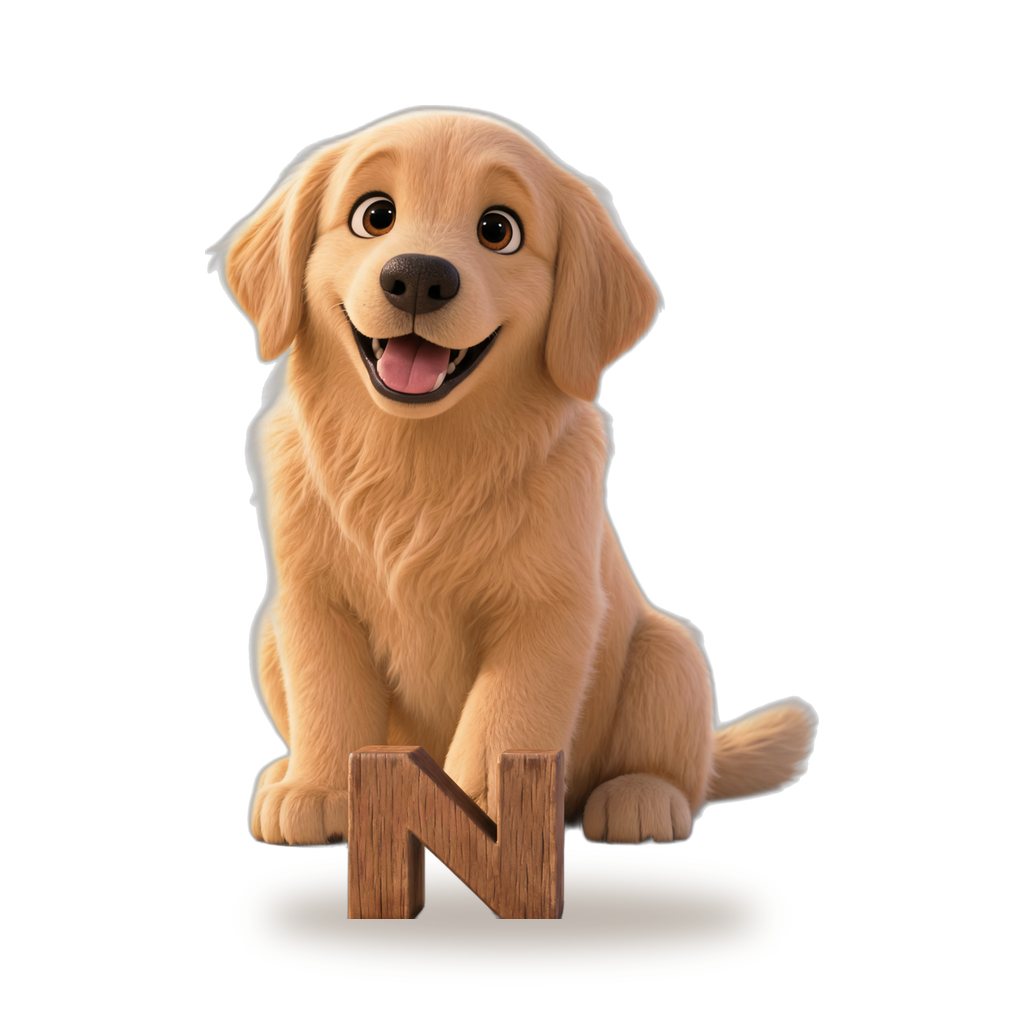
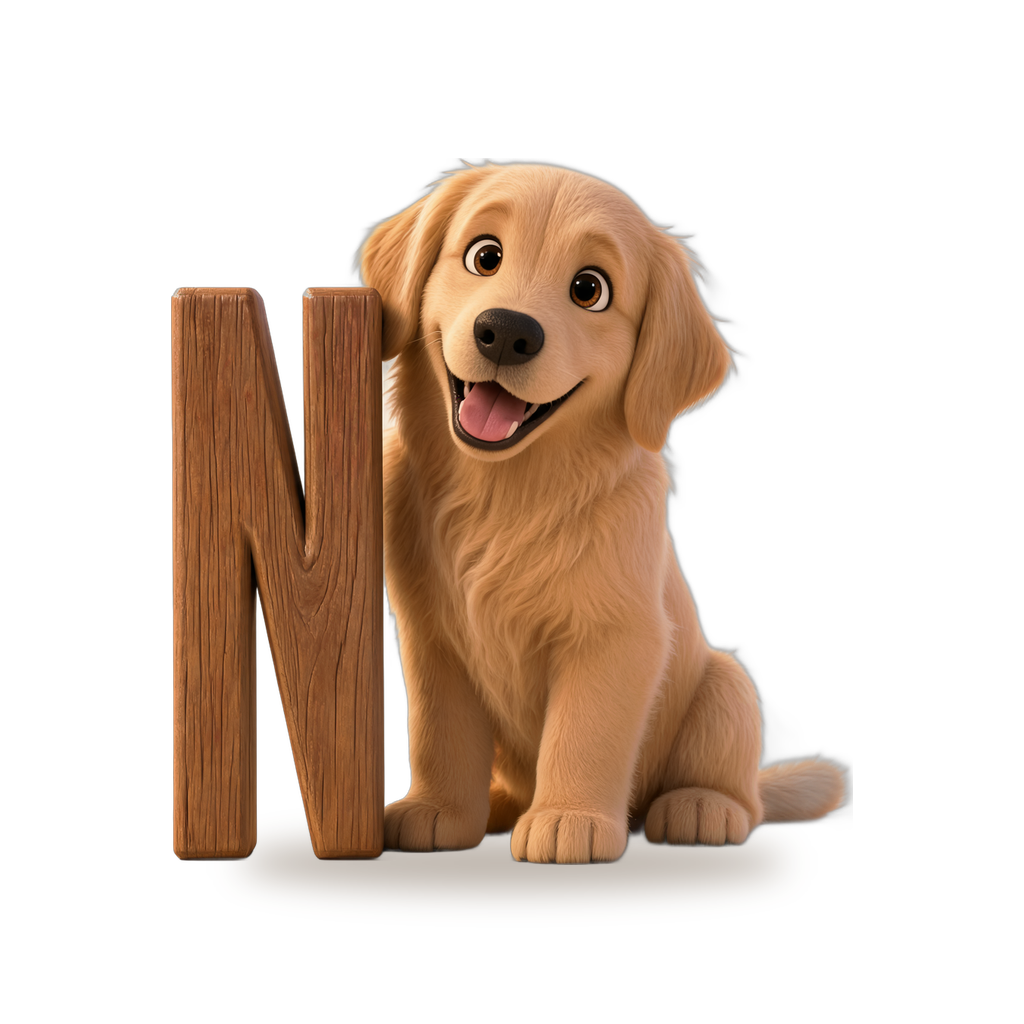
letter post: chunky N and T redo (redo3), nt-sheet + preview

diff --git a/letter-post/MANIFEST.md b/letter-post/MANIFEST.md
@@ -19,13 +19,13 @@ Credits: 37 generations x 212.1 = 7,847.7.
 | K | cutout/lucy-letter-k.webp | raw/K-final.png | pass: K-try3 (try1 hidden/mangled, try2 mangled) |
 | L | cutout/lucy-letter-l.webp | raw/L-final.png | pass: L-try1 |
 | M | cutout/lucy-letter-m.webp | raw/M-final.png | pass: test1 M-2 (reused) |
-| N | cutout/lucy-letter-n.webp | raw/N-final.png | weak: redo2-try2, N in front but bottom edge touches frame (try1 drew an I, try3 boxed N) (v1 kept: raw/N-final-v1.png, cutout/old-v1/) |
+| N | cutout/lucy-letter-n.webp | raw/N-final.png | pass: redo3-try3, big chunky N standing on the floor beside her (try1 no letter + room background, try2 N half behind her). v2 kept: raw/N-final-v2.png, cutout/old-v2/ |
 | O | cutout/lucy-letter-o.webp | raw/O-final.png | pass: O-try1; Lucy sits inside the O so she looks a bit smaller in the circle |
 | P | cutout/lucy-letter-p.webp | raw/P-final.png | pass: P-try1 |
 | Q | cutout/lucy-letter-q.webp | raw/Q-final.png | pass: Q-try2 (try1 tiny/garbled) |
 | R | cutout/lucy-letter-r.webp | raw/R-final.png | pass: redo2-alt1, big clean R beside her. Other run pick kept: raw/R-final-redo2pick.png (v1 kept: raw/R-final-v1.png, cutout/old-v1/) |
 | S | cutout/lucy-letter-s.webp | raw/S-final.png | pass: S-try1 |
-| T | cutout/lucy-letter-t.webp | raw/T-final.png | ok: redo2-alt1, T beside her, top bar touches her ear; tail restored in cutout (KEY). Other run pick kept: raw/T-final-redo2pick.png (v1 kept: raw/T-final-v1.png, cutout/old-v1/) |
+| T | cutout/lucy-letter-t.webp | raw/T-final.png | weak: redo3-try2, chunky wide-bar T but it floats above the floor, and Lucy shows a bit smaller in the circle because the T sits high (try1 T behind her + cropped, try3 slim tilted floating T). v2 kept: raw/T-final-v2.png, cutout/old-v2/ |
 | U | cutout/lucy-letter-u.webp | raw/U-final.png | pass: U-try1; stray object at left edge removed in cutout |
 | V | cutout/lucy-letter-v.webp | raw/V-final.png | pass: redo2-alt1 (parallel run), clean V on the floor beside her; tail restored in cutout (KEY). Other run pick kept: raw/V-final-redo2pick.png (v1 kept: raw/V-final-v1.png, cutout/old-v1/) |
 | W | cutout/lucy-letter-w.webp | raw/W-final.png | flag: W-try2 CROPPED: lower half only (the full image had a 2nd floating Lucy head; try1 had a room background and 3 Vs). Lucy is lying down here. FLAG: weakest; redo if Bradley wants |
@@ -38,3 +38,6 @@ Bradley t770u: these were off. New raws raw/<X>-redo2-try1..3.png, prompts p4/, 
 
 Final picks (Redo 2): Y = redo2-try2, N = redo2-try2 (weak), D = redo2-try1 (other run); V, T, R, E = redo2-alt1 (second, parallel run: raw/<X>-redo2-alt1.png, prompts p4-alt1/, gens gens-redo3-alt1.json).
 Credits, both runs: 3,393.6 + 1,484.7 = 4,878.3 (over the 3,500 cap because two runs overlapped). Note: alt1 overwrote p4/<X>.txt + p4/prompts.json (the try1 prompts) and the 7 node prompts on the flow; try2/3 prompts are in p4/prompts-try2.json / -try3.json.
+
+## Redo 3 (2026-11-01, about 10:25 to 10:45 am CT): N and T only
+Bradley t773u: "N is really tiny, tiny, tiny, and T is really slim". Lucy unchanged. Prompts p5/ (N.txt/T.txt = try1, -try2, -try3), gens gens-redo4-nt.json, raws raw/<X>-redo3-try1..3.png. 6 generations x 212.1 = 1,272.6 credits. Old vs new: nt-sheet.jpg.
